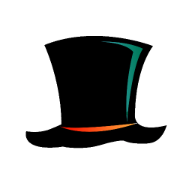
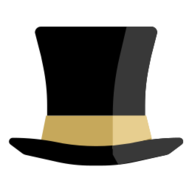
Update header layout and add new iconify dependency
Adjusted the header component to better align items by adding `lg:items-center`. Updated package.json and yarn.lock to include the `@iconify-json/fluent-mdl2` dependency for additional icon support. Made several graphical changes to favicon and touch icons.

diff --git a/components/layout/Header.vue b/components/layout/Header.vue
@@ -40,7 +40,7 @@ const goTo = (path: string) => {
             </div>
           </div>
           <div v-if="!isTablet || isMenuOpen" class="flex flex-auto flex-col gap-6 items-center justify-between lg:flex-row ">
-            <div class="flex gap-6 flex-col lg:flex-row">
+            <div class="flex gap-6 flex-col lg:flex-row lg:items-center">
               <ULink v-for="link in links" :key="link.to"
                      :to="link.to"
                      :target="link.target ? link.target : ''"
